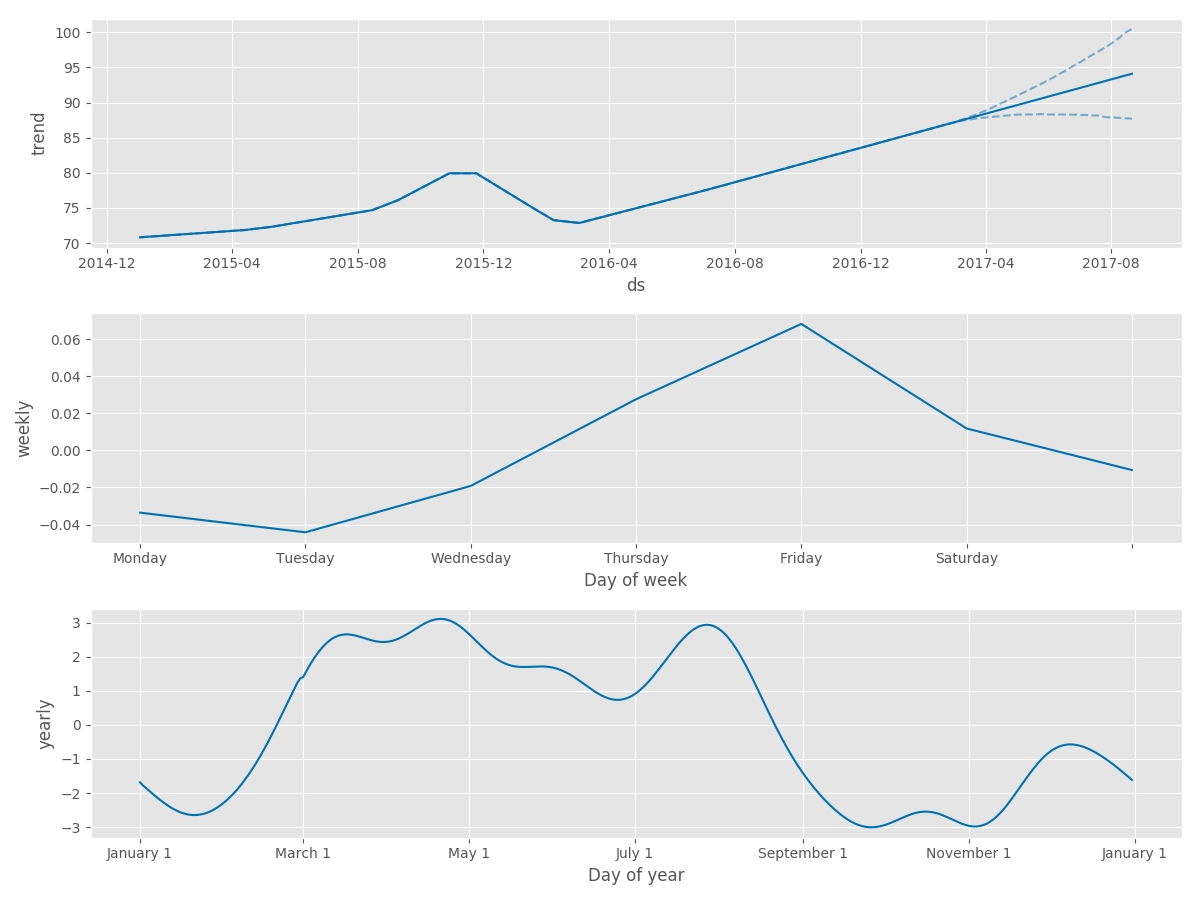
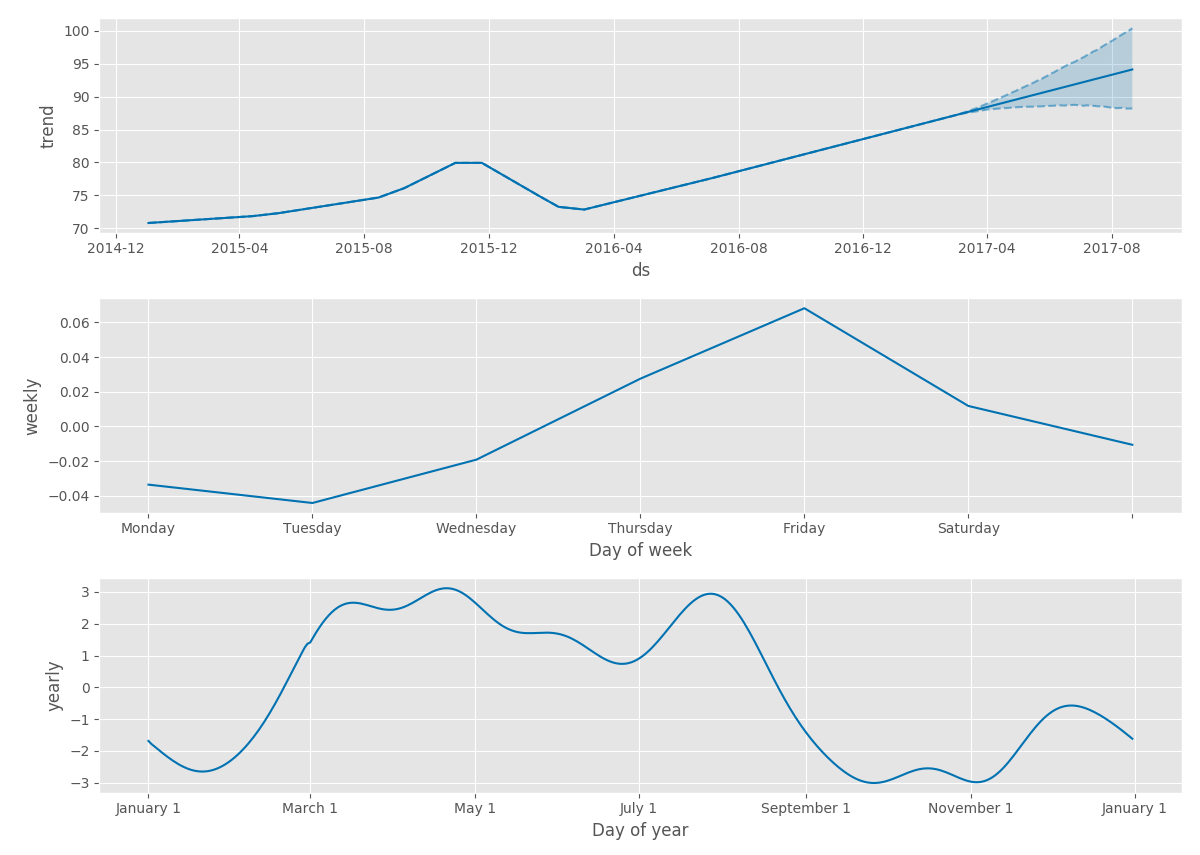
Fix fill_between and PEP8

diff --git a/shioulin/spsector_predict.py b/shioulin/spsector_predict.py
@@ -1,51 +1,54 @@
 import pandas as pd
-import numpy as np
-
 from matplotlib import pyplot as plt
 from matplotlib.dates import DateFormatter, MonthLocator
-from matplotlib.ticker import MaxNLocator
-plt.style.use('ggplot')
 from fbprophet import Prophet
 
-#read in file, time series has data for all 365 days, for weekends or holidays we use the previous day's close
-#need 365 days for fourier transform (periodic seasonality) since 365 is hardcoded
+plt.style.use('ggplot')
 
-df = pd.read_csv('/Users/shioulinsam/Documents/Data/SPSectorFilled.csv')
+# read in file, time series has data for all 365 days, for weekends or holidays
+# we use the previous day's close #need 365 days for fourier transform
+# (periodic seasonality) since 365 is hardcoded
+df = pd.read_csv('SPSectorFilled.csv')
 
-#Dataset consists of the following ETFs: XLY, XLP, XLE, XLF, XLV, XLI, XLB, XLK, XLU
+# Dataset consists of the following ETFs:
+# XLY, XLP, XLE, XLF, XLV, XLI, XLB, XLK, XLU
 data_string = 'XLY'
 
 df['ds'] = df['Date']
 df['y'] = df[data_string]
 
-#set changepoint parameter, default is 0.05. When set to a large number (eg 0.20)
-#the system is more flexible (ie, tend to overfit)
+# set changepoint parameter, default is 0.05. When set to a large number (e.g.
+# 0.20) the system is more flexible (i.e., tends to overfit)
 m = Prophet(changepoint_prior_scale=0.02)
-m.fit(df);
+m.fit(df)
 
 future = m.make_future_dataframe(periods=180)
 forecast = m.predict(future)
 
-##plot forecast
+# plot forecast
 forecast_color = '#0072B2'
-fig1 = plt.figure(facecolor='w', figsize=(12,8))
-ax=plt.subplot(111)
+fig1 = plt.figure(facecolor='w', figsize=(12, 8))
+ax = plt.subplot(111)
 ax.plot(m.history['ds'], m.history['y'], 'k.')
 ax.plot(forecast['ds'], forecast['yhat'], ls='-', c=forecast_color)
-#fill_between does not work
-#ax.fill_between(forecast['ds'], forecast['yhat_lower'], forecast['yhat_upper'], c=forecast_color, alpha=0.2)
-ax.plot(forecast['ds'], forecast['yhat_lower'], ls='--', c=forecast_color, alpha=0.5)
-ax.plot(forecast['ds'], forecast['yhat_upper'], ls='--', c=forecast_color, alpha=0.5)
+ax.fill_between(forecast['ds'].values,
+                forecast['yhat_lower'],
+                forecast['yhat_upper'],
+                facecolor=forecast_color, alpha=0.2)
+ax.plot(forecast['ds'], forecast['yhat_lower'],
+        ls='--', c=forecast_color, alpha=0.5)
+ax.plot(forecast['ds'], forecast['yhat_upper'],
+        ls='--', c=forecast_color, alpha=0.5)
 
 ax.grid(True, which='major', c='gray', ls='-', lw=1, alpha=0.2)
 ax.set_xlabel('ds')
 ax.set_ylabel('y')
 fig1.show()
-fig_string = '/Users/shioulinsam/Documents/Figures/'+data_string + 'forecast.png'
+fig_string = data_string + 'forecast.png'
 fig1.tight_layout()
 fig1.savefig(fig_string)
 
-#plot components(trend, holidays, weekly, yearly if available)
+# plot components(trend, holidays, weekly, yearly if available)
 plot_trend = True
 plot_holidays = m.holidays is not None
 plot_weekly = 'weekly' in forecast
@@ -53,13 +56,18 @@ plot_yearly = 'yearly' in forecast
 
 npanel = plot_trend + plot_holidays + plot_weekly + plot_yearly
 print(npanel)
-fig2 = plt.figure(facecolor='w', figsize=(12,3 *npanel))
-panel_num=1
-ax=plt.subplot(npanel, 1, panel_num)
+fig2 = plt.figure(facecolor='w', figsize=(12, 3 * npanel))
+panel_num = 1
+ax = plt.subplot(npanel, 1, panel_num)
 ax.plot(forecast['ds'], forecast['trend'], ls='-', c=forecast_color)
-#ax.fill_between(forecast['ds'].values,forecast['trend_lower'], forecast['trend_upper'], c=forecast_color)
-ax.plot(forecast['ds'], forecast['trend_lower'], ls='--', c=forecast_color, alpha=0.5)
-ax.plot(forecast['ds'], forecast['trend_upper'], ls='--', c=forecast_color, alpha=0.5)
+ax.fill_between(forecast['ds'].values,
+                forecast['trend_lower'],
+                forecast['trend_upper'],
+                facecolor=forecast_color, alpha=0.2)
+ax.plot(forecast['ds'], forecast['trend_lower'],
+        ls='--', c=forecast_color, alpha=0.5)
+ax.plot(forecast['ds'], forecast['trend_upper'],
+        ls='--', c=forecast_color, alpha=0.5)
 ax.set_xlabel('ds')
 ax.set_ylabel('trend')
 
@@ -70,10 +78,9 @@ if plot_holidays:
     y_holiday = forecast[holiday_comps].sum(1)
     y_holiday_l = forecast[[h + '_lower' for h in holiday_comps]].sum(1)
     y_holiday_u = forecast[[h + '_upper' for h in holiday_comps]].sum(1)
-    ax.plot(forecast['ds'],y_holiday, ls='-', c= forecast_color)
+    ax.plot(forecast['ds'], y_holiday, ls='-', c=forecast_color)
     ax.set_xlabel('ds')
     ax.set_yabel('holidays')
-    
 
 
 if plot_weekly:
@@ -82,11 +89,12 @@ if plot_weekly:
     df_s = forecast.copy()
     df_s['dow'] = df_s['ds'].dt.weekday_name
     df_s = df_s.groupby('dow').first()
-    days = ['Sunday', 'Monday', 'Tuesday', 'Wednesday', 'Thursday', 'Friday', 'Saturday']
+    days = ['Sunday', 'Monday', 'Tuesday', 'Wednesday', 'Thursday', 'Friday',
+            'Saturday']
     y_weekly = [df_s.loc[d]['weekly'] for d in days]
     y_weekly_l = [df_s.loc[d]['weekly_lower'] for d in days]
     y_weekly_u = [df_s.loc[d]['weekly_upper'] for d in days]
-    ax.plot(range(len(days)), y_weekly, ls='-', c = forecast_color)
+    ax.plot(range(len(days)), y_weekly, ls='-', c=forecast_color)
     ax.set_xticklabels(days)
     ax.set_xlabel('Day of week')
     ax.set_ylabel('weekly')
@@ -97,18 +105,15 @@ if plot_yearly:
     df_s = forecast.copy()
     df_s['doy'] = df_s['ds'].map(lambda x: x.strftime('2000-%m-%d'))
     df_s = df_s.groupby('doy').first().sort_index()
-    ax.plot(pd.to_datetime(df_s.index), df_s['yearly'], ls='-', c = forecast_color)
-    months = MonthLocator(range(1,13), bymonthday=1, interval =2)
+    ax.plot(pd.to_datetime(df_s.index), df_s['yearly'],
+            ls='-', c=forecast_color)
+    months = MonthLocator(range(1, 13), bymonthday=1, interval=2)
     ax.xaxis.set_major_formatter(DateFormatter('%B %-d'))
     ax.xaxis.set_major_locator(months)
     ax.set_xlabel('Day of year')
     ax.set_ylabel('yearly')
 
-    
 fig2.show()
-
-fig_string = '/Users/shioulinsam/Documents/Figures/'+data_string + 'component.png'
+fig_string = data_string + 'component.png'
 fig2.tight_layout()
 fig2.savefig(fig_string)
-
-
